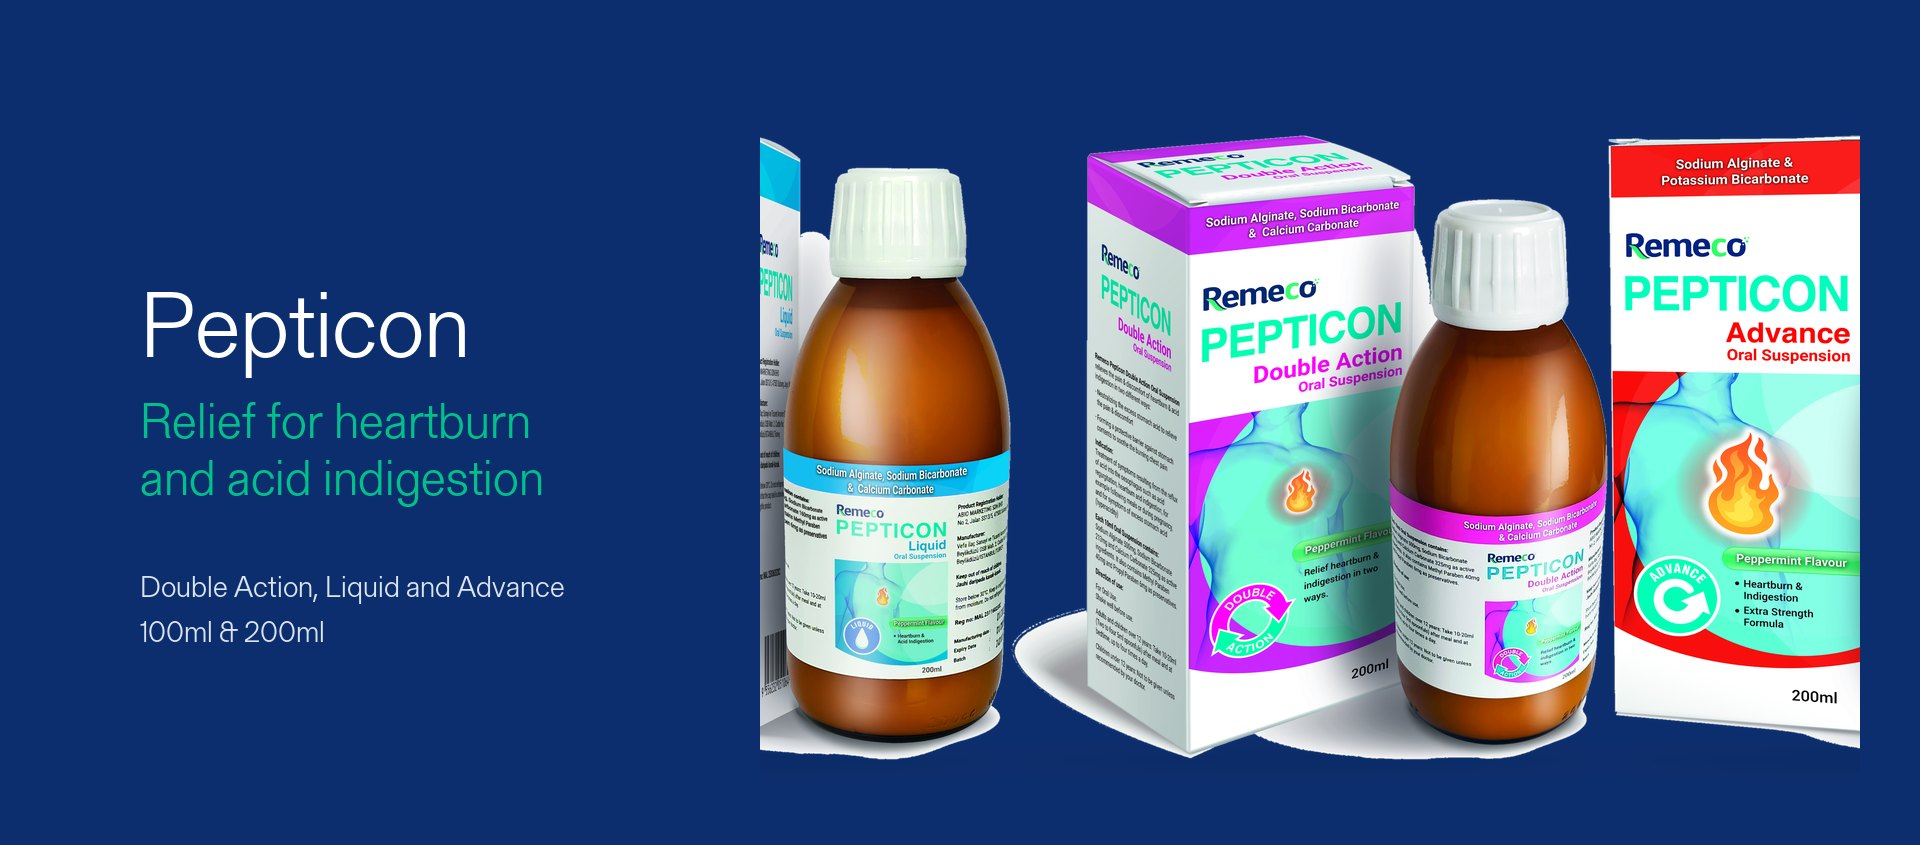
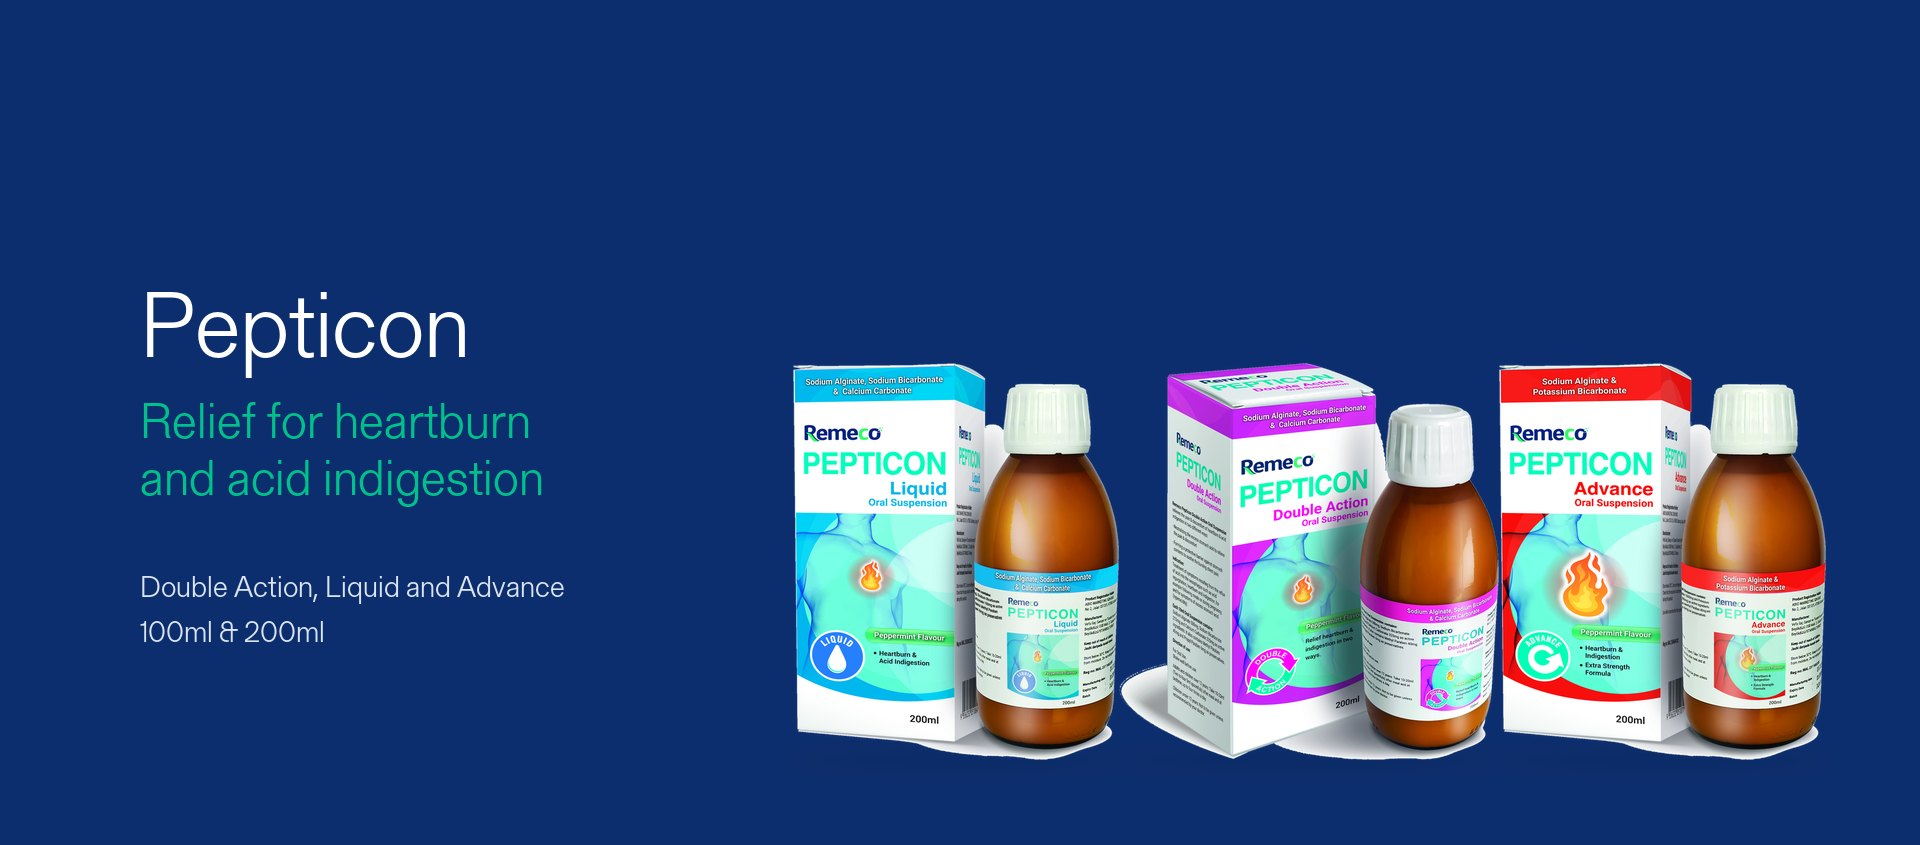
Stop product images being cropped on phones and tablets
The template fills its image boxes with object-fit:cover and the box shapes change
per breakpoint, which cut off product packshots. Product shots now fit their boxes
(or the box takes the image's ratio), heroes show a 16:9 product crop under the
headline below 992px, and the range/banner compositions are rebuilt so no product
runs off its own canvas. The dark gradient over the range card images is removed.

diff --git a/assets/css/remeco.css b/assets/css/remeco.css
@@ -10,6 +10,22 @@ a.main-button.secondary-btn .button-text{color:var(--primary-text)}
 footer .logo svg{width:208px;height:54px;max-width:100%}
 /* long email addresses in the contact band wrap instead of clipping */
 .contact-1-text-link{overflow-wrap:anywhere}
+/* Product imagery is never cut off (client rule: container ratio = image ratio). The template fills these
+   boxes with object-fit:cover and their shapes change by breakpoint, which cropped the packshots. */
+.product-detail-banner .product-images .product-img img{object-fit:contain!important;background:#fff}
+/* template forces .private-product-slider img to 0.8 + cover with !important; packshots are square */
+.private-products .private-product-slider .swiper-slide img{aspect-ratio:1/1!important;object-fit:contain!important}
+.section-our-services .listing-2-image{height:auto!important;aspect-ratio:4/5}
+.section-our-services .listing-2-image img.cover-image{object-fit:contain}
+.section-blogs .blog-thumb-background img{object-fit:contain;object-position:center top}
+.section-blogs .blog-gradient-color{display:none}
+@media (max-width:991px){
+  /* hero product shot under the headline, whole, at its own 16:9 */
+  .page-template-private-label .home-hero-1 .bg-image{background-image:url(../img/hero-about-m.jpg)!important}
+  .page-template-solution .home-hero-1 .bg-image{background-image:url(../img/hero-where-m.jpg)!important}
+  .page-template-private-label .home-hero-1 .bg-image,.page-template-solution .home-hero-1 .bg-image{background-size:100% auto!important;background-position:center bottom!important;background-repeat:no-repeat!important}
+  .page-template-private-label .home-hero-1,.page-template-solution .home-hero-1{padding-bottom:56.25vw}
+}
 /* mobile/tablet film: the template's Lottie is a frame sequence; same frames, same box */
 .mobile-video .rm-frame{position:absolute;inset:0;width:100%;height:100%;object-fit:contain;display:none}
 .mobile-video .rm-frame.on{display:block}
